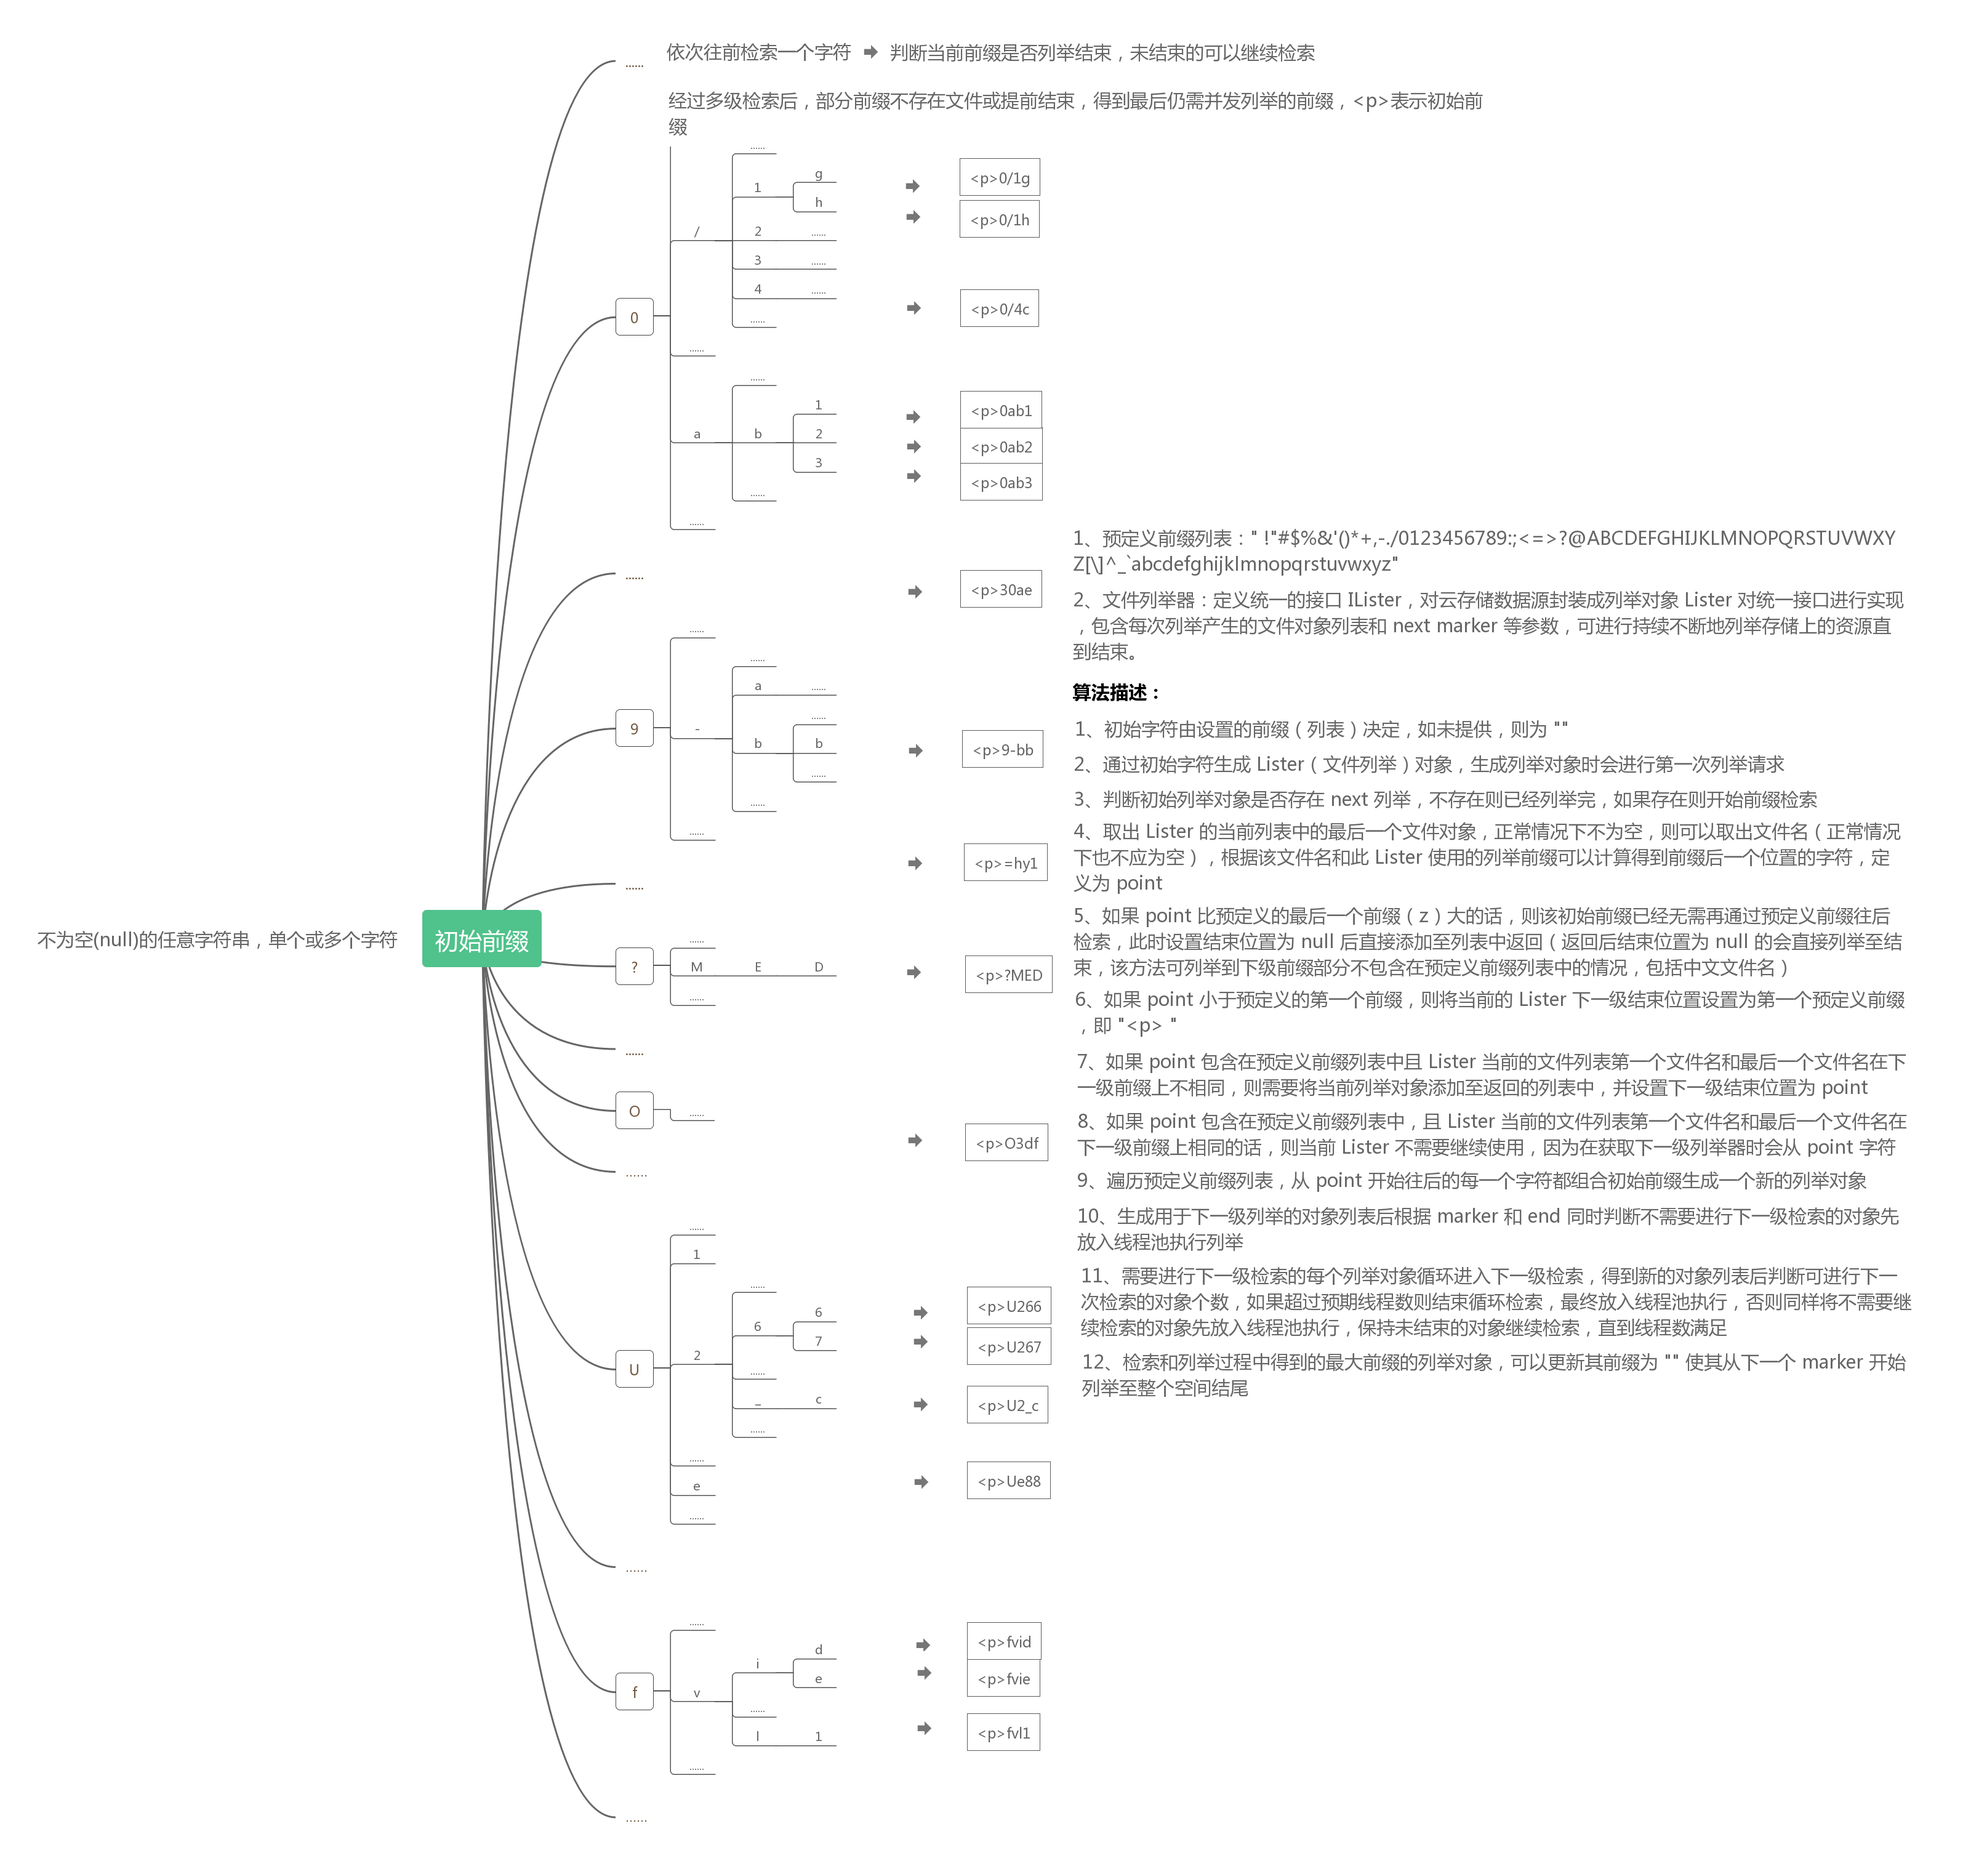
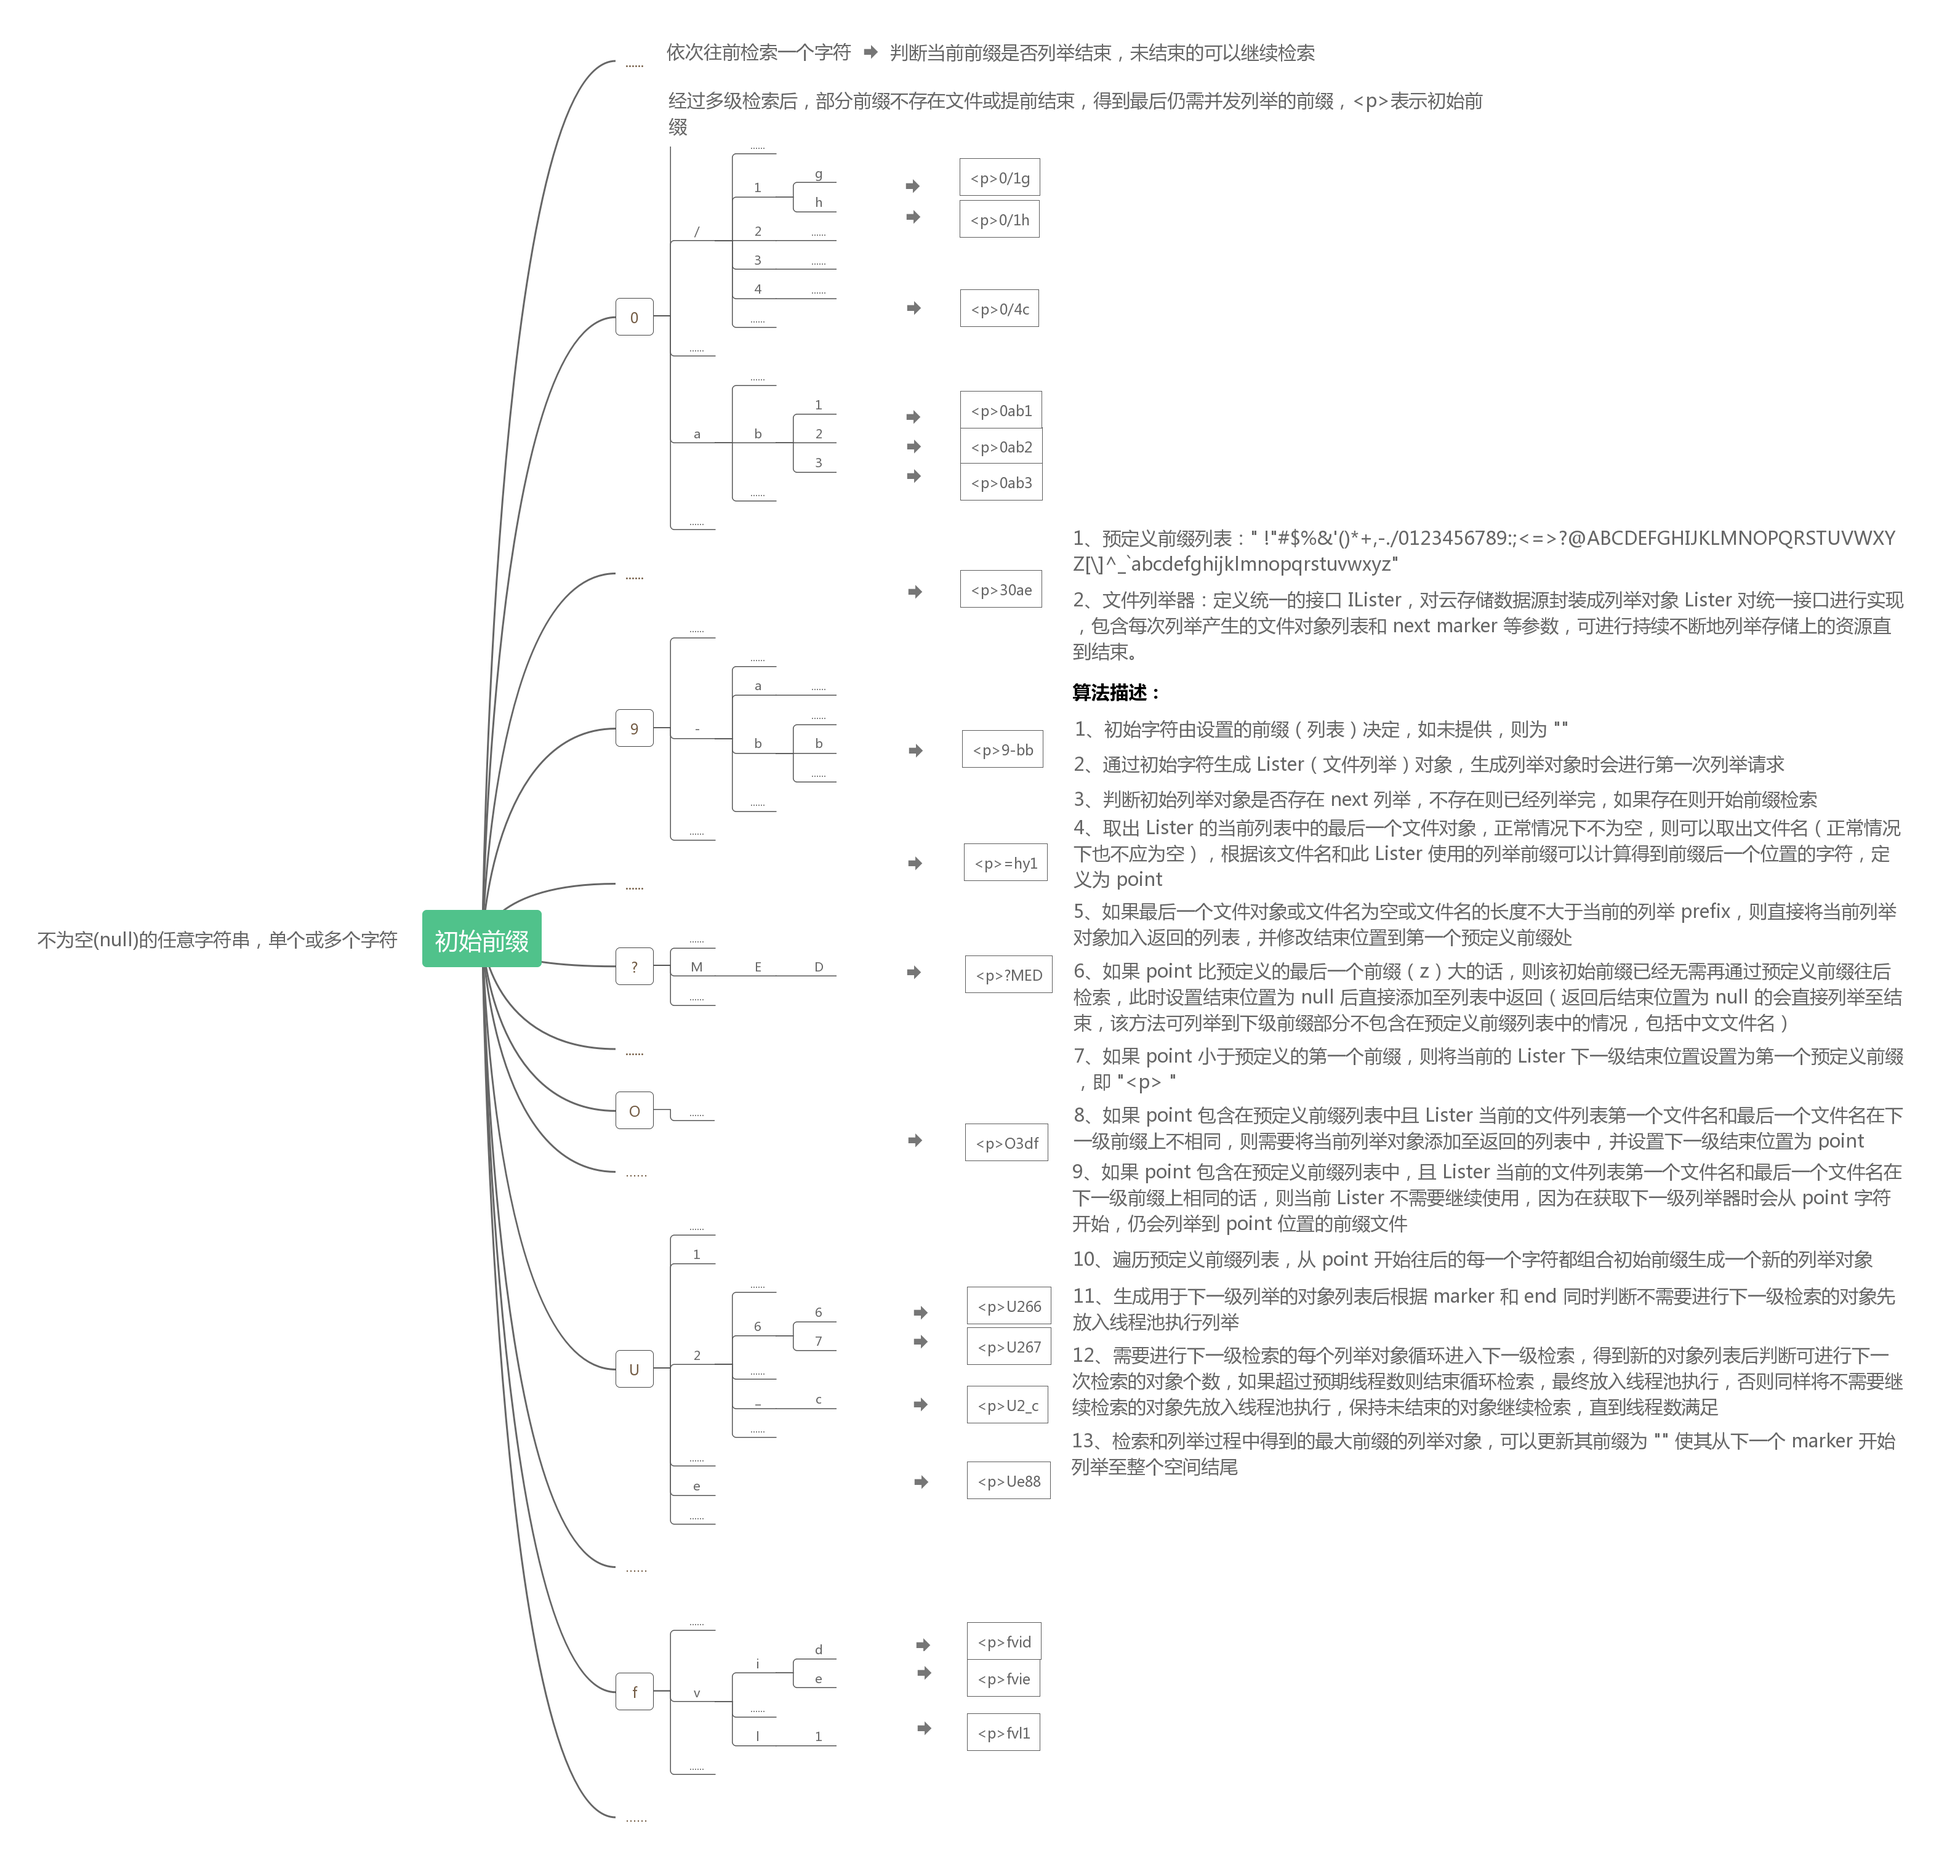
update algorithm description design of oss files listing.

diff --git a/src/main/java/com/qiniu/datasource/OssContainer.java b/src/main/java/com/qiniu/datasource/OssContainer.java
@@ -307,8 +307,8 @@ public abstract class OssContainer<E> implements IDataSource {
         if (!lister.hasNext()) {
             nextLevelList.add(lister);
             return nextLevelList;
-        // 如果存在 next 且当前获取的最后一个对象不为空，则可以根据最后一个对象计算后续的前缀
-        } else if (lister.currentLast() != null) {
+        // 如果存在 next 且当前获取的最后一个对象不为空，则可以根据最后一个对象的文件名计算后续的前缀字符
+        } else if (lister.currentLast() != null && lister.currentLastKey() != null) {
             int prefixLen = lister.getPrefix().length();
             String lastKey = lister.currentLastKey();
             // 如果最后一个对象的文件名长度大于 prefixLen，则可以取出从当前前缀开始的下一个字符，用于和预定义前缀列表进行比较，确定 lister 的
